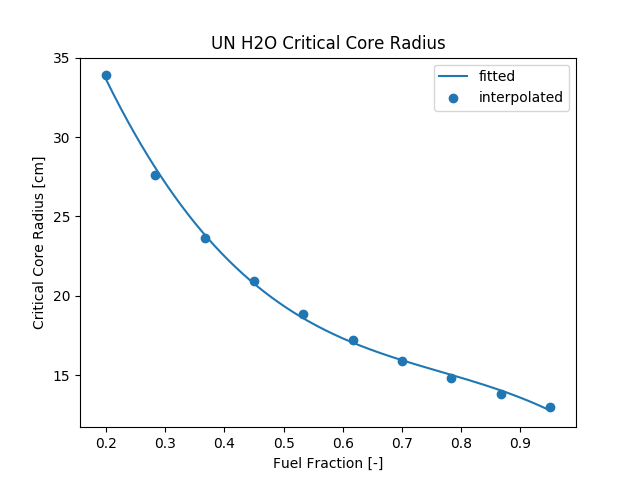
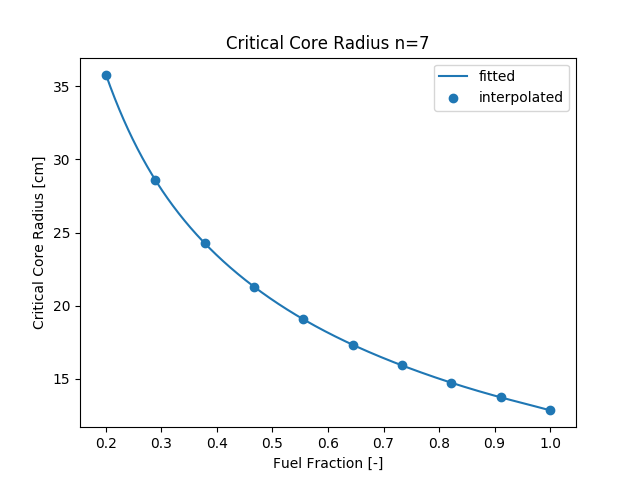
editing, and adding more tables for critical radius curve fits

diff --git a/document/chapters/01-background.tex b/document/chapters/01-background.tex
@@ -1,7 +1,7 @@
 \chapter{Background and Project Description}
 Electrical power is vital for NASA to achieve its deep space exploration goals.
 Electricity powers life support systems for astronaut habitats, communication
-with Earth, and allows astronauts to perform experiments to help us better
+with Earth, and allows astronauts to perform experiments to help society better
 understand the solar system. Long-life, high-output, compact electrical power
 systems are vital to achieving future space exploration goals. Launch costs 
 often restrict the design of systems launched
@@ -9,37 +9,38 @@ into space, currently NASA is under contract with SpaceX to deliver supplies to
 the International Space Station (ISS) in low-earth orbit (LEO). SpaceX delivers
 supplies to the ISS for more than \$13,000 per kg\citep{spacex}. Launch costs to Mars or the
 Moon will be significantly higher given the required energy to escape Earth's
-orbit. As a consequence, when designing a terrestrial electrical system for
-solar system exploration, it is crucial to minimize the mass of the system. This
-work was a sub-set of a larger
+orbit. As a consequence it is crucial to minimze system mass when designing a terrestrial electrical system for
+solar system exploration. To this end, a surrogate mass model of a small fission
+nuclear reactor was developed. This work was a sub-set of a larger
 project to explore the mass tradeoff between the critical components of the
 electrical power system in order to minimize the mass of the system as a whole.
 This project developed the reactor mass model to support the goal of the overall
 project.
 
 \section{Scope}
-The purpose of this work was not to develop a fully-fledged reactor concept.
+The purpose of this project was not to develop a fully-fledged reactor concept.
 High-fidelity core modeling of neutronics and thermal hydraulics was not
 performed for this work.
 This project focused on exploring the tradeoffs between reactor mass and the
 mass of significant components of the power cycle. Traditional reactor physics
 tools could not be used for depletion calculations because they are to slow to
-integrate into an optmization routine. To support the optimization effort, this project focused on
+integrate into an optmization routine. To support the opwer system mass optimization, this project focused on
 developing a surrogate model for the reactor mass to be integrated into the
-power cycle model. This model needed to take inputs from the power cycle and
+power cycle model. The model needed to take inputs from the power cycle and
 rapidly exceute to return the minimum mass reactor that could meet the thermal
 power requirement of the power cycle. The overall cycle was constrained to the
-target lifetime and power outputs dictated by the project sponsors. The reactor
-was modeled sufficiently such that future work could feasibly develop the
+target lifetime and power output dictated by the project sponsors. The reactor
+was modeled sufficiently so that future work could feasibly develop the
 concept into a deployable reactor within a reasonable amount of time.
 
 \section{Constraints}
-The two main constraints for the system were provided by the project sponsors,
+The two main constraints for the power system were provided by the project sponsors,
 and ultimately dictated by NASA. NASA has identified the following performance
 requirements: a 10 year lifetime and a 40 kWe power level, as sufficient to
-support future terrestrial exploration throughout the solar system. All fuel
+support future terrestrial exploration throughout the solar system. All nuclear fuel
 options were available for the reactor with a preferance for high near-term
-technical readiness. High enriched uranium is acceptable. The reactor will be direct-cooled and coupled to a
+technical readiness. The use of igh enriched uranium was acceptable. 
+The reactor is be direct-cooled, and coupled to a
 supercritical carbon dioxide brayton cycle to produce the desired electrical
 output. The reactor will be used only for terrestrial applications, not in
 transit. This helps shielding mass, because the reactor can be buried prior to
@@ -63,7 +64,7 @@ needs. Since 1961, NASA has deployed 46 RTGs on 27 different space missions
 One of the more common examples of a successful RTG design is the
 General-Purpose Heat Source Radioisotope Thermoelectric Generator (GPHS-RTG).
 GPHS-RTG relied on a \pu alpha source to generate heat. Modules of \pu
-generators were stacked together for a combined thermal power of 4410 Wt. The
+generators were stacked together for a combined thermal power of 4410 Wth. The
 converter used silicon-germanium converter elements to produce 285 W of
 electrical power at the beginning of mission (BOM).
 \citep{bennett_mission_2006}. 
@@ -71,7 +72,7 @@ electrical power at the beginning of mission (BOM).
 The GPHS-RTG design has been used on
 numerous NASA deep space missions including; Galileo, Ulysses, New Horizons,
 Cassini. All of the aforementioned spacecraft have had or continue to have
-satisfactory power performance from their RTGs. \citep{bennett_mission_2006}.
+satisfactory power performance from their RTGs \citep{bennett_mission_2006}.
 In addition to the GPHS-RTG, NASA has used similar RTG designs for other
 missions. The Apollo moon missions, Viking and Curiosity Mars missions, Voyager
 and Pioneer deep space probes have all used RTG technology to power their
@@ -79,18 +80,19 @@ instruments and communication systems. The Voyager probes continue to function,
 sending back data to Earth as they push into interstellar space
 \citep{mmrtg_fact}.
 
-NASA has experienced great success using RTGs to power deep space missions. Many
-RTG systems deployed decades ago are still enabling deep space exploration
+NASA has had great success using RTGs to power deep space missions. Many
+RTG systems deployed decades ago are still powering deep space exploration
 across the solar system. Despite their stellar performance record, RTGs are not
 designed to provide large amounts of electrical power. The efficiency of RTGs is
-too low for consideration at the 40 kWe level. In addition the US supply of \pu
-is dwindling. NASA can't afford to use a \pu system at the 40 kWe level. As a
-result, a fission power system was deemed appropriate for the project.
+too low for consideration at the 40 kWe power level. In addition the US supply of \pu
+is dwindling, NASA can't afford to use \pu for a larger thermal system. As a
+result, a fission power, with more readily available fuel and higher conversiont
+efficiency (when coupled to a fluid cycle) was deemed more promising.
 
 \subsection{Fission Power Systems}
 Since RTGs have limited mass performance at high power levels, this project focused on designing a
 fission power system to meet the mission requirements. Experience from past
-fission designs was sought to help limit the design of the reactor. The choice
+fission designs was sought to help guide the design of the reactor. The choice
 for fuel was based off of past designs. Some designs that were explored include;
 SP-100, Kilopower, NTP and NEP concepts, and other solid-core design concepts.
     
@@ -120,8 +122,8 @@ SP-100, Kilopower, NTP and NEP concepts, and other solid-core design concepts.
     Readiness Level 5 by 2017 \citep{gibson_nasas_2017}. The Kilopower project is a
     stirling engine system driven by a heat-pipe cooled core. The UMo core was
     manufactured at the Y-12 National Security Complex from 93\%, High-Enriched
-    Uranium (HEU). Kilopower is a relevant reference because it fills a similar 
-    mission profile as the current project. NASA's target for Kilopower was a 1-10 kWe unit. 
+    Uranium (HEU). Kilopower was a relevant reference because it filled a similar 
+    mission profile as this project. NASA's target for Kilopower was a 1-10 kWe unit. 
     The core was successfully tested from November 2017 to March 2018 \citep{poston_krusty_2018}. During the
     tests, the UMo core was operated at 800 $\degree$C and 10 kWt power. While the
     cooling and power cycle systems differ from a direct-brayton cycle reactor, the
@@ -193,14 +195,14 @@ SP-100, Kilopower, NTP and NEP concepts, and other solid-core design concepts.
     CERMET fuel. Like the NTP designs, CERMET fuel was explored because of its
     high thermal conductivity. The working fluid and coolant was helium. The
     reactor mass model was a combination of thermal hydraulic equations and
-    critical mass requirements. MCNP5 was used to determine how much fuel mass
+    critical mass requirements. MCNP was used to determine how much fuel mass
     was required for a given coolant channel radius. The result of the thermal
     and neutronic modeling was a analytic fit for the requried reactor mass as a
     function of reactor thermal power. The model was a simple linear fit to
     thermal power and did not account for mass effects driven by changing flow
     conditions (temperature, pressure, etc.) \citep{webb_combined_2011}. 
     
-    The goal of the INL concept was also to minimize the overall mass of the
+    The goal of the INL concept was similar to this project; to minimize the overall mass of the
     power system. In addition to a linear reactor mass model, the project
     developed simplified mass models for the power cycle components.
     The total optimization was performed by coupling the power cycle
@@ -233,7 +235,7 @@ integrate into a wholistic system optimization. The reactor mass model needed to
 take flow inputs from the power cycle and calculate the minimum mass reactor for
 that set of flow conditions with the flow inputs coupling the reactor to 
 the other cycle components. Simplified analytical heat transfer and
-statistical neutronics functions were developed to support this workflow.
+statistical neutronics functions were developed to model a minimum-mass reactor.
 
 \subsection{Neutronics}
 Neutronics modeling was broken into two steps. Initially, depletion calculations
@@ -254,7 +256,7 @@ as they make their way from source locations to regions of interest. MCNP can
 tally particles in space and energy, as well as their interaction rates with
 surronding matter. In addition to tallying capabilities, MCNP is capable of
 performing eigenvalue calculations. The \keff models in MCNP were used
-extensively to predict reactor behavior to input parameters. Finally, MCNP6.1
+extensively to predict reactivity response to input parameters. Finally, MCNP6.1
 can model depletion in nuclear fuel. This capability was used to explore the
 reactor response to burnup over its 10 year lifetime.
 

diff --git a/document/chapters/09-appendix-a.tex b/document/chapters/09-appendix-a.tex
@@ -18,7 +18,11 @@ fraction.
 This configuration is uranium nitride fuel dispersed in a tungsten matrix. The
 fuel block is clad with Inconel-718. The
 fuel is cooled by supercritical carbon dioxide. A fixed average reflector
-multiplier of 0.211 was used for this configuration. Fig \ref{fig:core_r_un_co2}
+multiplier of 0.211 was used for this configuration. Table 
+
+
+
+Fig \ref{fig:core_r_un_co2}
 shows the critical core radii as a function of fuel fraction.
 
 \begin{figure}[h]
@@ -29,22 +33,38 @@ shows the critical core radii as a function of fuel fraction.
 \end{figure}
 
 Figure \ref{fig:core_r_un_co2} shows the interpolated core radii and the fitted
-curve to the core radii, fuel fraction data. A 3rd degree polynomial was fit to
-the data. Equation \ref{eq:un_co2_fit} shows the fit equation. This fit
-relationship is used to constrain the core radius in the reactor mass model.
+curve to the core radii, fuel fraction data. Table \ref{tab:un_co2_fit_coeffs}
+contains the 7th order fit coefficients.
 
-\begin{equation}
-    R_{core} = -85.897x^3 + 196.378x^2 - 161.316x + 62.376
-    \label{eq:un_co2_fit}
-\end{equation}
+\begin{table}[h]
+  \centering
+  \caption{\uox-\codiox 7th order fit coefficients}
+  \begin{tabular}{cc}
+    \toprule
+     Degree & Coef\\ 
+    \midrule                                  
+    A$_0$  &  94.223\\
+    A$_1$  &  -545.608\\
+    A$_2$  &  2009.221\\
+    A$_3$  &  -4554.870\\
+    A$_4$  &  6393.359\\
+    A$_5$  &  -5413.548\\
+    A$_6$  &  2530.940\\
+    A$_7$  &  -501.210\\
+  \end{tabular}
+  \label{tab:uo2_co2_fit_coeffs}
+\end{table}
+
 
 \section{\uox-\water}
 This configuration is monolithic uranium oxide fuel with Inconel-718 cladding.
 The fuel is cooled by supercritical water. A fixed average reflector multiplier
 of 0.001 was used for this configuration. The reflector thickness was not
 allowed to be zero for modeling convenience in MCNP. The optimization found a
-reflector to not be favorable for this configuration. The critical radius data
-and fitted line is shown in Figure \ref{fig:core_r_uo2_h2o}.
+reflector to not be favorable for this configuration. Figure
+\ref{fig:core_r_uo2_h2o} shows the critical radius curve, and Table
+\ref{tab:uo2_h2o_fit_coeffs} shows the fit coefficients for the 7th order
+polynomial fit to the data.
 
 \begin{figure}[h]
     \centering
@@ -53,14 +73,57 @@ and fitted line is shown in Figure \ref{fig:core_r_uo2_h2o}.
 \label{fig:core_r_uo2_h2o}
 \end{figure}
 
-Equation \ref{eq:uo2_h2o_fit} was used by the reactor mass model to constrain
-the critical core radius as a function of fuel fraction.
+\begin{table}[h]
+  \centering
+  \caption{\uox-\water 7th order fit coefficients}
+  \begin{tabular}{cc}
+    \toprule
+     Degree & Coef\\ 
+    \midrule                                  
+    A$_0$  &  1\\
+    A$_1$  &  1\\
+    A$_2$  &  1\\
+    A$_3$  &  1\\
+    A$_4$  &  1\\
+    A$_5$  &  1\\
+    A$_6$  &  1\\
+    A$_7$  &  1\\
+  \end{tabular}
+  \label{tab:uo2_h2o_fit_coeffs}
+\end{table}
 
-\begin{equation}
-    R_{core} = -67.959x^3 + 156.013x^2 - 130.251x + 53.983
-    \label{eq:uo2_h2o_fit}
-\end{equation}
 
 
 \section{UW-\water}
+This configuration is uranium nitride dispersed in a tungsten matrix. The core
+is cooled by supercritical \water. A fixed reflector multiplier of 0.0221 was
+used for this configuration. Figure \ref{fig:core_r_un_h2o} shows the critical
+radius curve, and Table \ref{tab:un_h2o_fit_coeffs} shows the fit coefficients
+for the 7th order polynomial fit to the data.
 
+\begin{figure}[h]
+    \centering
+    \includegraphics[width=4in]{../images/core_r_un_h2o.png}
+\caption{Critical core radius for UW-\water configuration.}
+\label{fig:core_r_un_h2o}
+\end{figure}
+
+
+\begin{table}[h]
+  \centering
+  \caption{UW-\water 7th order fit coefficients}
+  \begin{tabular}{cc}
+    \toprule
+     Degree & Coef\\ 
+    \midrule                                  
+    A$_0$  &  87.181\\
+    A$_1$  &  -509.057\\
+    A$_2$  &  1971.832\\
+    A$_3$  &  -4736.728\\
+    A$_4$  &  7065.368\\
+    A$_5$  &  -6372.948\\
+    A$_6$  &  3181.888\\
+    A$_7$  &  -674.687\\
+  \end{tabular}
+  \label{tab:un_h2o_fit_coeffs}
+\end{table}

diff --git a/document/chapters/04-criticality.tex b/document/chapters/04-criticality.tex
@@ -142,7 +142,7 @@ generate a set of mass-optimized reactors constrained to a target BOL \keff of
 1.01. Section \ref{sec:crit_rad_search} discusses the algorithm used to generate
 the minimized, constrained reactor masses.
 
-\section{Constrained Mass Optimization}\label{sec:crit_rad_search}
+\section{Constrained Critical Mass Optimization}\label{sec:crit_rad_search}
 It was desired to generate a relationship between \keff and the three input
 parameters (r, f, m). Such that:
 
@@ -292,8 +292,16 @@ fuel fraction.
 
 \subsubsection{Choosing a fitting function for critical core radius}
 The reactor mass model needed a functional relationship between fuel fraction
-and critical core radius. This was achieved with polynomial curve fitting. The
-choice of order of the polynomial was very important to accurately represent the
+and critical core radius. This was achieved with polynomial curve fitting.
+Equation \ref{eq:polyfit} describes the target polynomial for the critical
+radius fits, where n is the degree of fit.
+
+\begin{equation}
+    R_{critical} = \sum_{i=0}^n A_ix^i
+    \label{eq:polyfit}
+\end{equation}
+
+The choice of order of the polynomial was very important to accurately represent the
 critical core radius. \keff is very sensitive to small mass changes in mass, as
 a result, an underfitted polynomial could return reactor masses that do not
 result in the target BOL \keff. A simple study was conducted to make an informed
@@ -323,4 +331,26 @@ interpolation function.
 \caption{Critical radius dependence on fuel fraction.}
 \label{fig:core_r_co2_uo2}
 \end{figure}
+
+The 7th order fit coefficients are shown below in Table
+\ref{tab:uo2_co2_fit_coeffs}.
+
+\begin{table}[h]
+  \centering
+  \caption{\uox-\codiox 7th order fit coefficients}
+  \begin{tabular}{cc}
+    \toprule
+     Degree & Coef\\ 
+    \midrule                                  
+    A$_0$  &  68.490\\
+    A$_1$  &  -360.546\\
+    A$_2$  &  1238.973\\
+    A$_3$  &  -2675.960\\
+    A$_4$  &  3638.972\\
+    A$_5$  &  -3034.285\\
+    A$_6$  &  1421.180\\
+    A$_7$  &  -287.194\\
+  \end{tabular}
+  \label{tab:uo2_co2_fit_coeffs}
+\end{table}
 

diff --git a/document/chapters/03-sweeps.tex b/document/chapters/03-sweeps.tex
@@ -1,4 +1,4 @@
-\chapter{Neutronic Constraints} \label{ch:sweeps}
+\chapter{End of Life Reactivity} \label{ch:sweeps}
 A valid reactor design must meet certain neutronics constraints. The main
 neutronics constraint is reactivity. The reactor must be able to sustain a chain
 reaction from startup, to the final second of the 10 year lifetime. End of Life
@@ -41,7 +41,7 @@ shown in Table \ref{tab:lhs_sweep_vars}.
   \label{tab:lhs_sweep_vars}
 \end{table}
 
-\section{Neutronics Sampling Results}
+\section{Parametric Study Results}
 The target metric for the neutronics sampling was an EOL \keff equal to one. In
 order to determine the dependence of EOL \keff on each swept parameter in Table
 \ref{tab:lhs_sweep_vars}, EOL \keff was plotted against the parameters.
@@ -116,7 +116,7 @@ and EOL \keff.
 \begin{figure}[h]
     \centering
     \includegraphics[width=3in]{../images/keff_vs_power.png}
-\caption{EOL \keff Power Dependence}
+\caption{EOL \keff dependence on thermal power}
 \label{fig:eol_keff_vs_power}
 \end{figure}
 
@@ -138,7 +138,7 @@ in the system. Figure \ref{fig:eol_keff_vs_235_mass} shows the dependence of EOL
 \begin{figure}[h]
     \centering
     \includegraphics[width=3in]{../images/keff_vs_mass_235.png}
-\caption{EOL \keff \uran mass dependence}
+\caption{EOL \keff dependence on \uran mass}
 \label{fig:eol_keff_vs_235_mass}
 \end{figure}
 

diff --git a/document/chapters/02-cycle.tex b/document/chapters/02-cycle.tex
@@ -9,11 +9,7 @@ more massive. Conversely, a less massive power cycle has lower efficiency,
 requiring a larger thermal input. This section will provide context to the
 development of the reactor mass model.
 
-\section{Cycle Description and Mass Modeling}
-The modeled cycle was a direct Brayton cycle coupled to a fission reactor. The
-cycle was recuperated for increased efficiency. A cycle diagram is shown below
-with the three modeled components. Figure \ref{fig:power_cycle} shows the power
-cycle diagram for this system.
+\section{Cycle Description and Component Mass Modeling}
 
 \begin{figure}[h]
     \centering
@@ -23,8 +19,9 @@ cycle diagram for this system.
 \end{figure}
 
 Three main power system components were modeled for
-mass; the radiator, recuperator, and the reactor. This thesis focuses on the
-reactor mass model. The goal of this work was to deliver a mass
+mass; the radiator, recuperator, and the reactor. 
+Figure \ref{fig:power_cycle} shows the powercycle diagram for this system.
+This thesis focuses on the reactor mass model. The goal of this work was to deliver a mass
 model to a colleague in order to optimize the overall power cycle mass
 performance. The colleage developed mass models for the radiator and recuperator
 as well as a cycle model to model the thermodynamic performance of the system.
